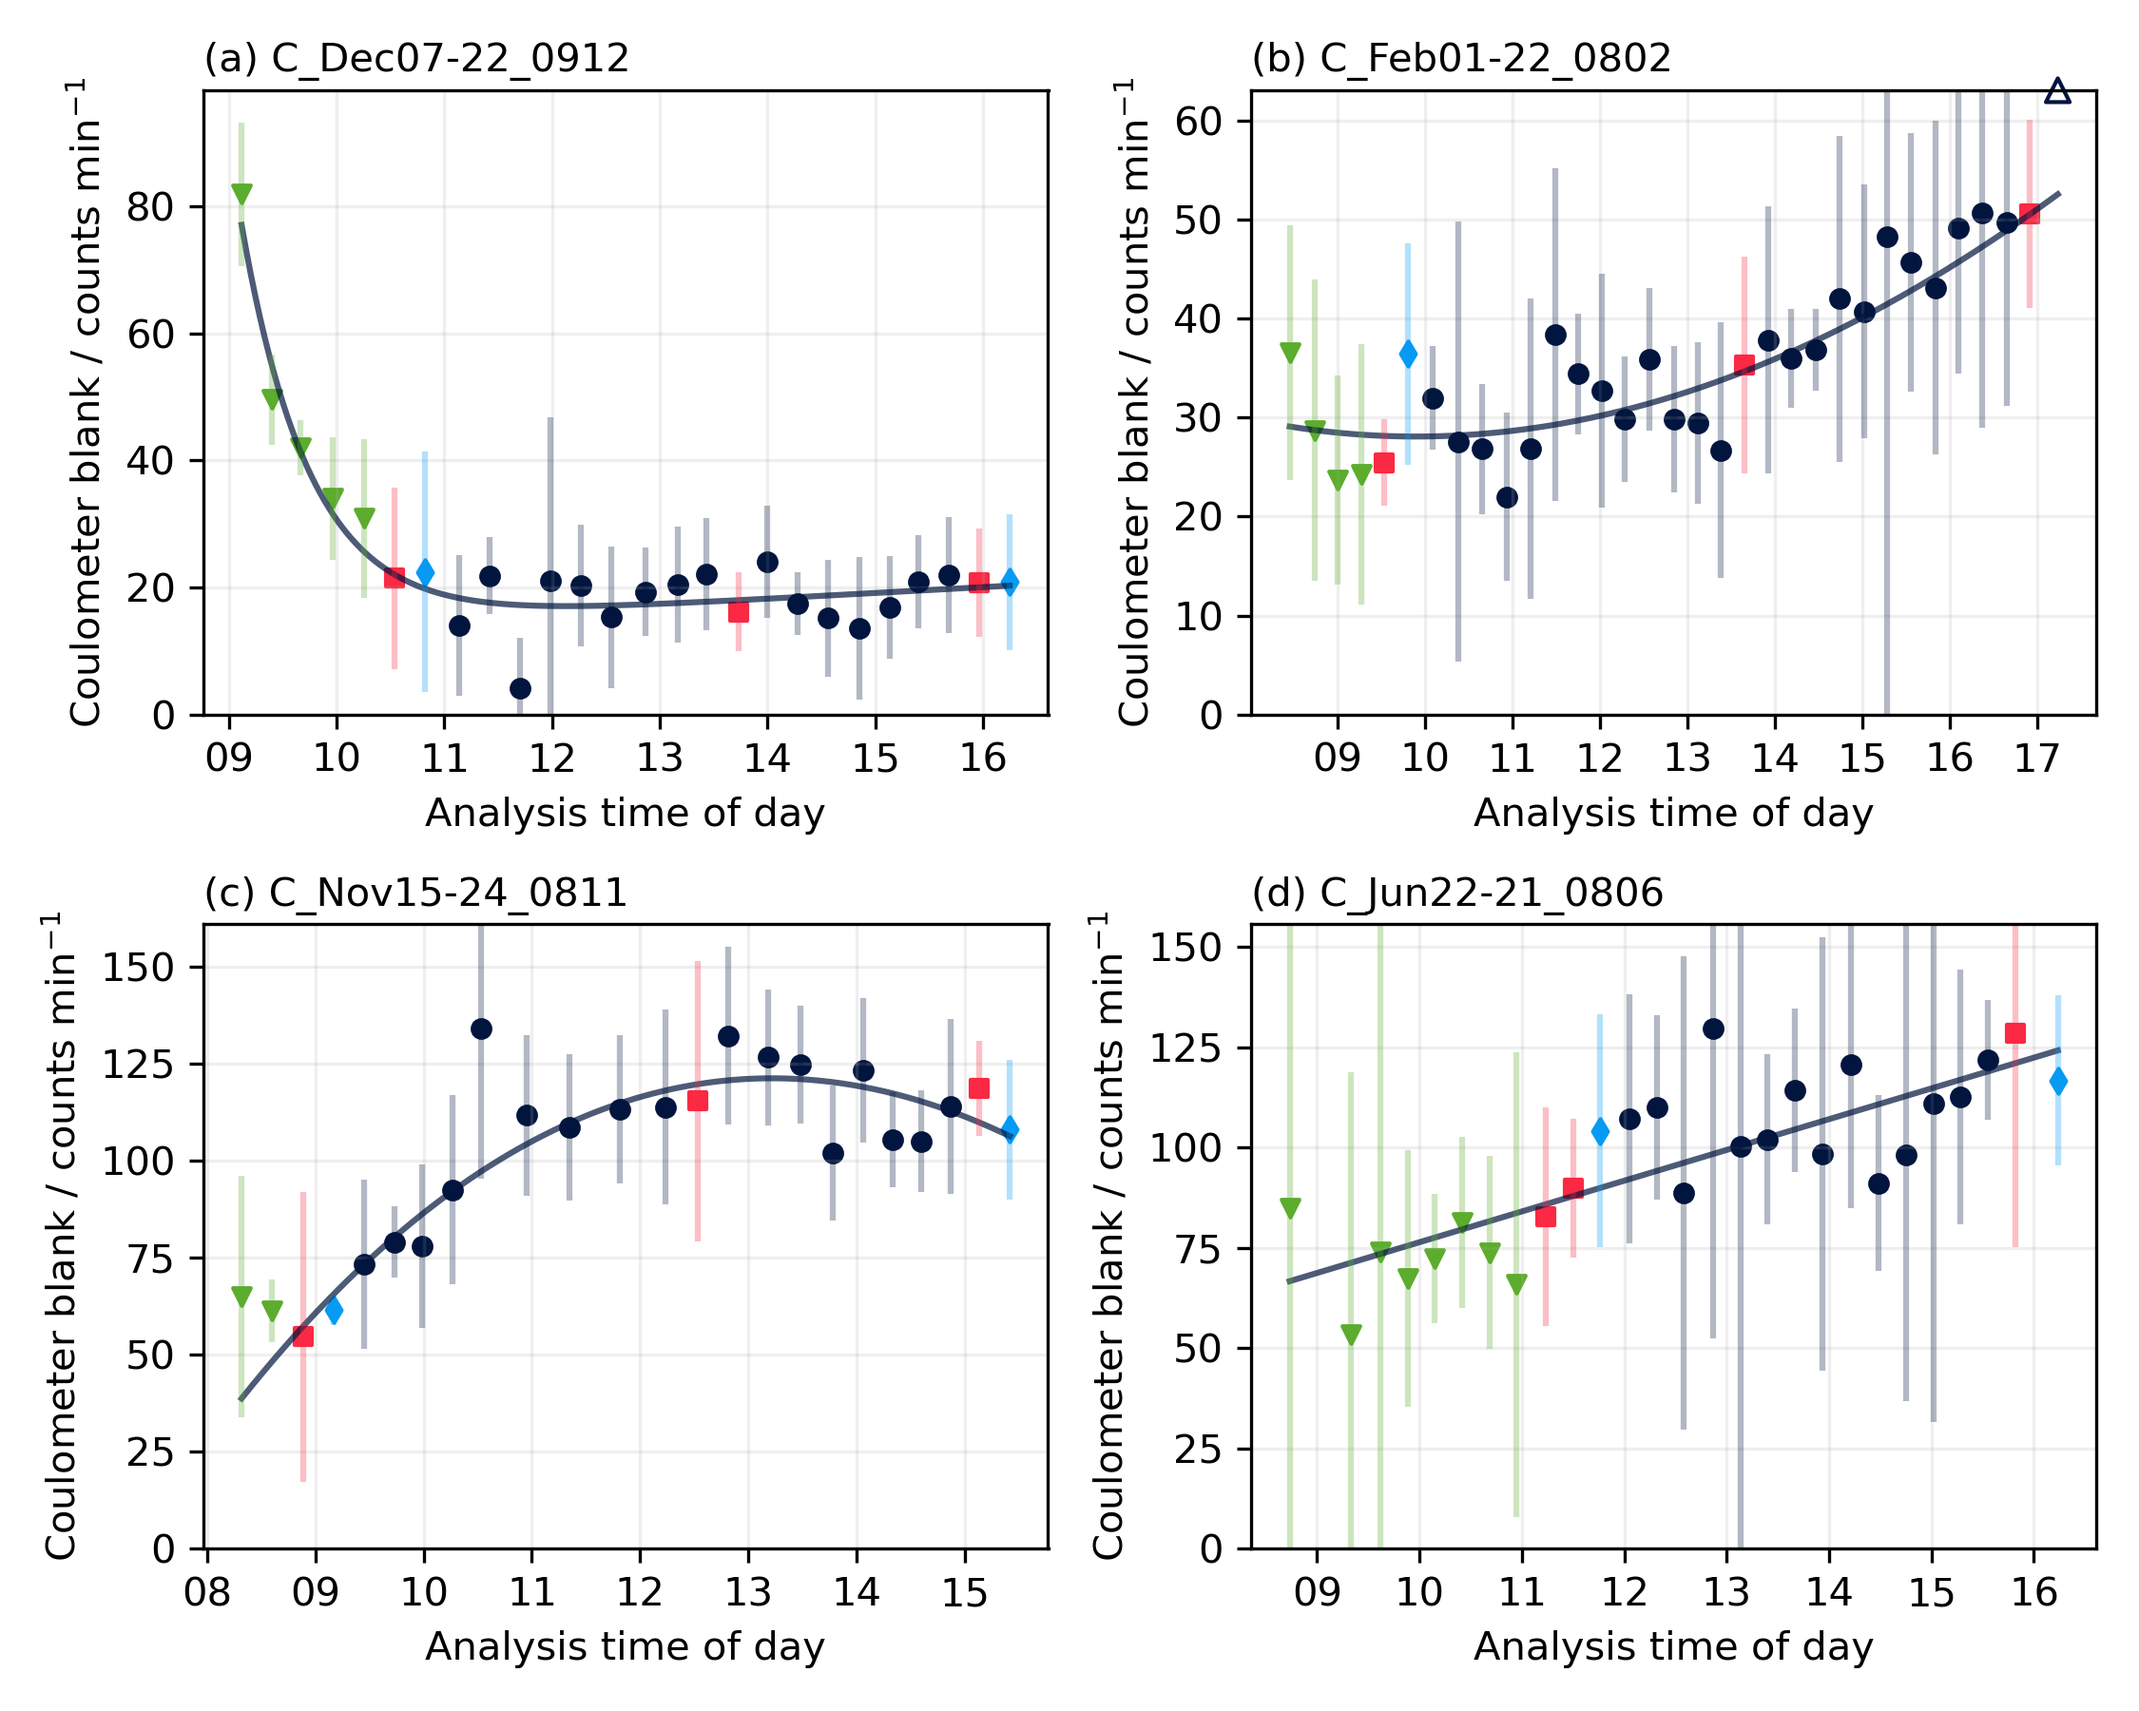
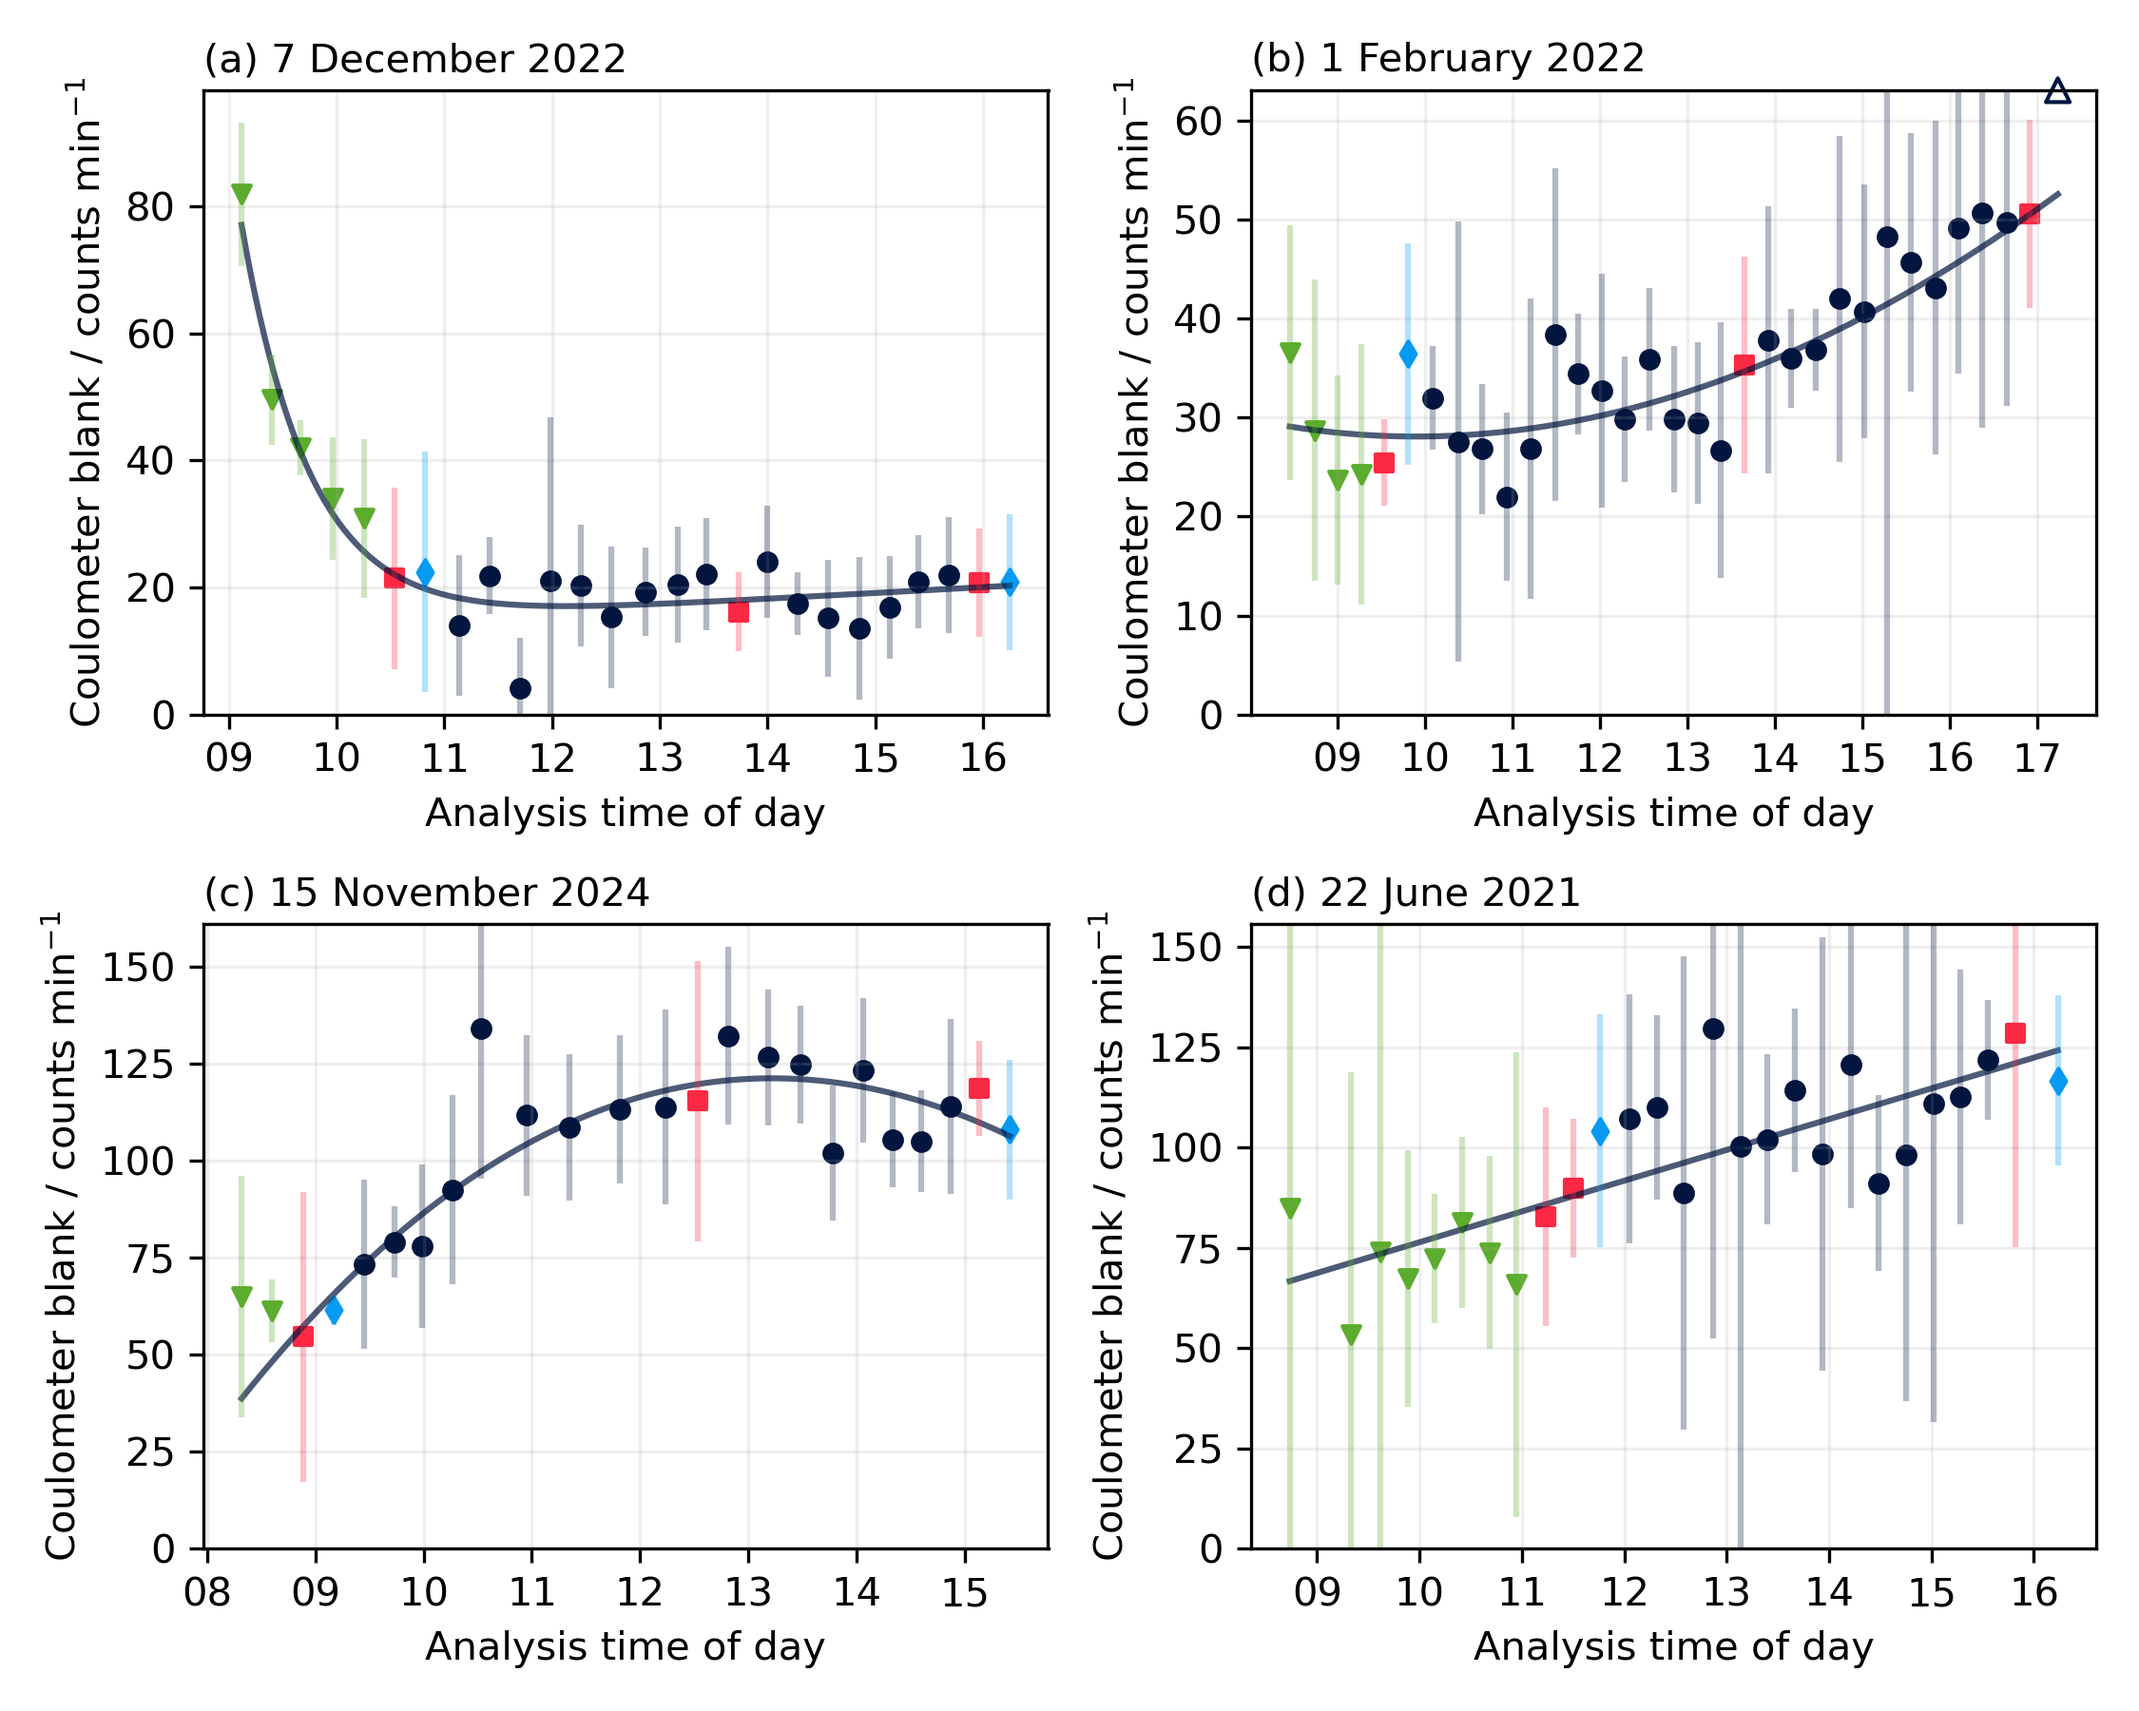
Improve panel titles

diff --git a/plot_sessions_tidy4.py b/plot_sessions_tidy4.py
@@ -27,6 +27,12 @@ fsessions = {
     "c": "C_Nov15-24_0811",
     "d": "C_Jun22-21_0806",
 }
+session_titles = {
+    "C_Dec07-22_0912": "7 December 2022",
+    "C_Feb01-22_0802": "1 February 2022",
+    "C_Nov15-24_0811": "15 November 2024",
+    "C_Jun22-21_0806": "22 June 2021",
+}
 for i, (lcl, session) in enumerate(fsessions.items()):
     # do_legend = i == 1
     do_legend = False
@@ -127,7 +133,7 @@ for i, (lcl, session) in enumerate(fsessions.items()):
         ax.xaxis.set_major_formatter(mdates.DateFormatter("%H"))
         ax.set_xlabel("Analysis time of day")
         ax.set_ylabel(r"Coulometer blank / counts min$^{-1}$")
-        ax.text(0, 1.03, f"({lcl}) {session}", transform=ax.transAxes)
+        ax.text(0, 1.03, f"({lcl}) {session_titles[session]}", transform=ax.transAxes)
         ax.grid(alpha=0.2)
 fig.tight_layout()
 fig.savefig("figures/plot_sessions_tidy4.png")
